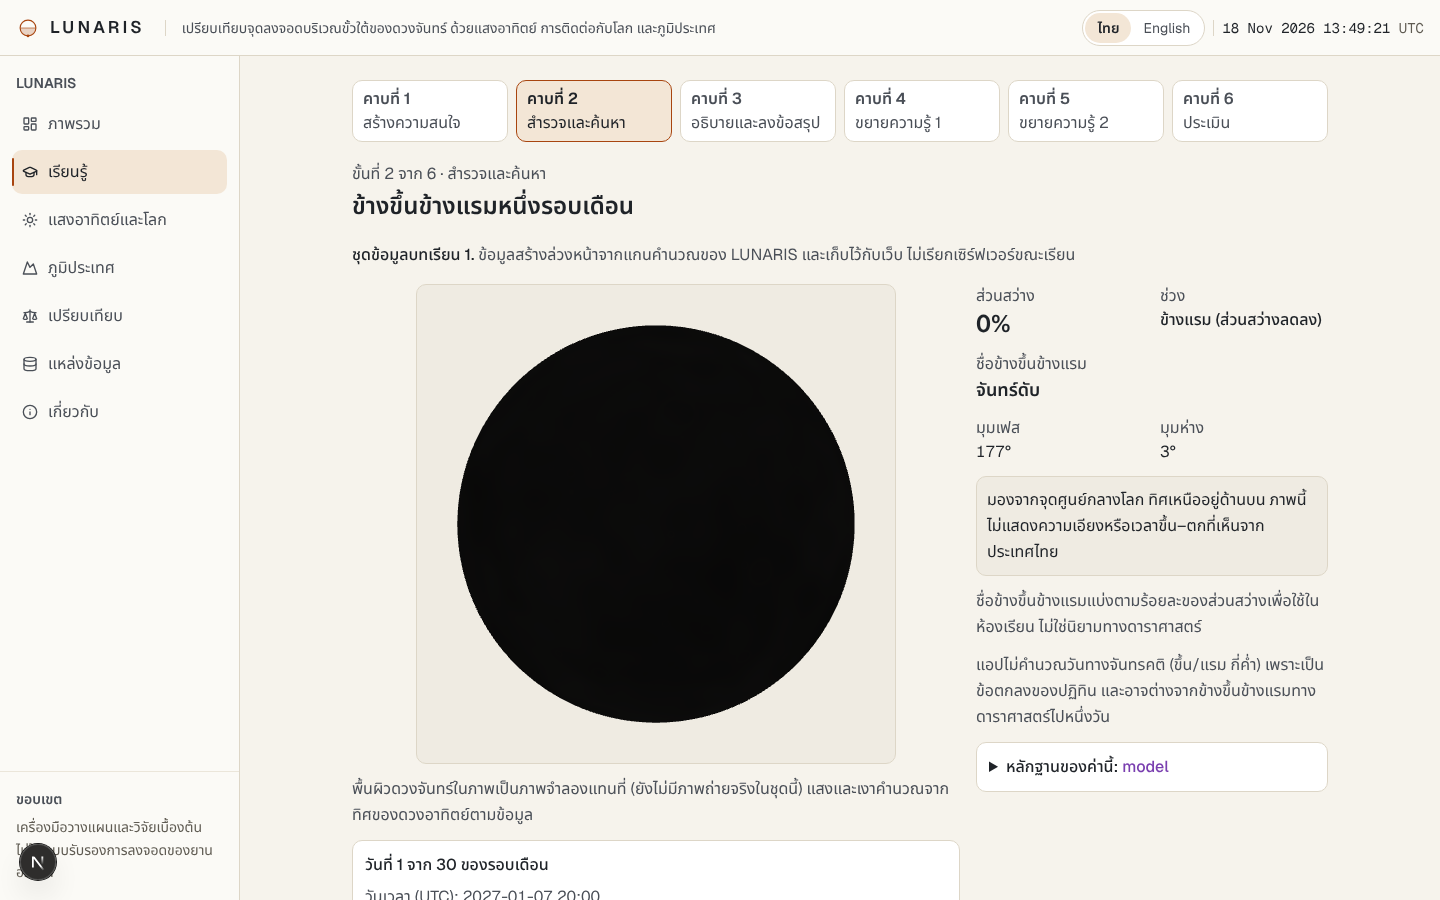
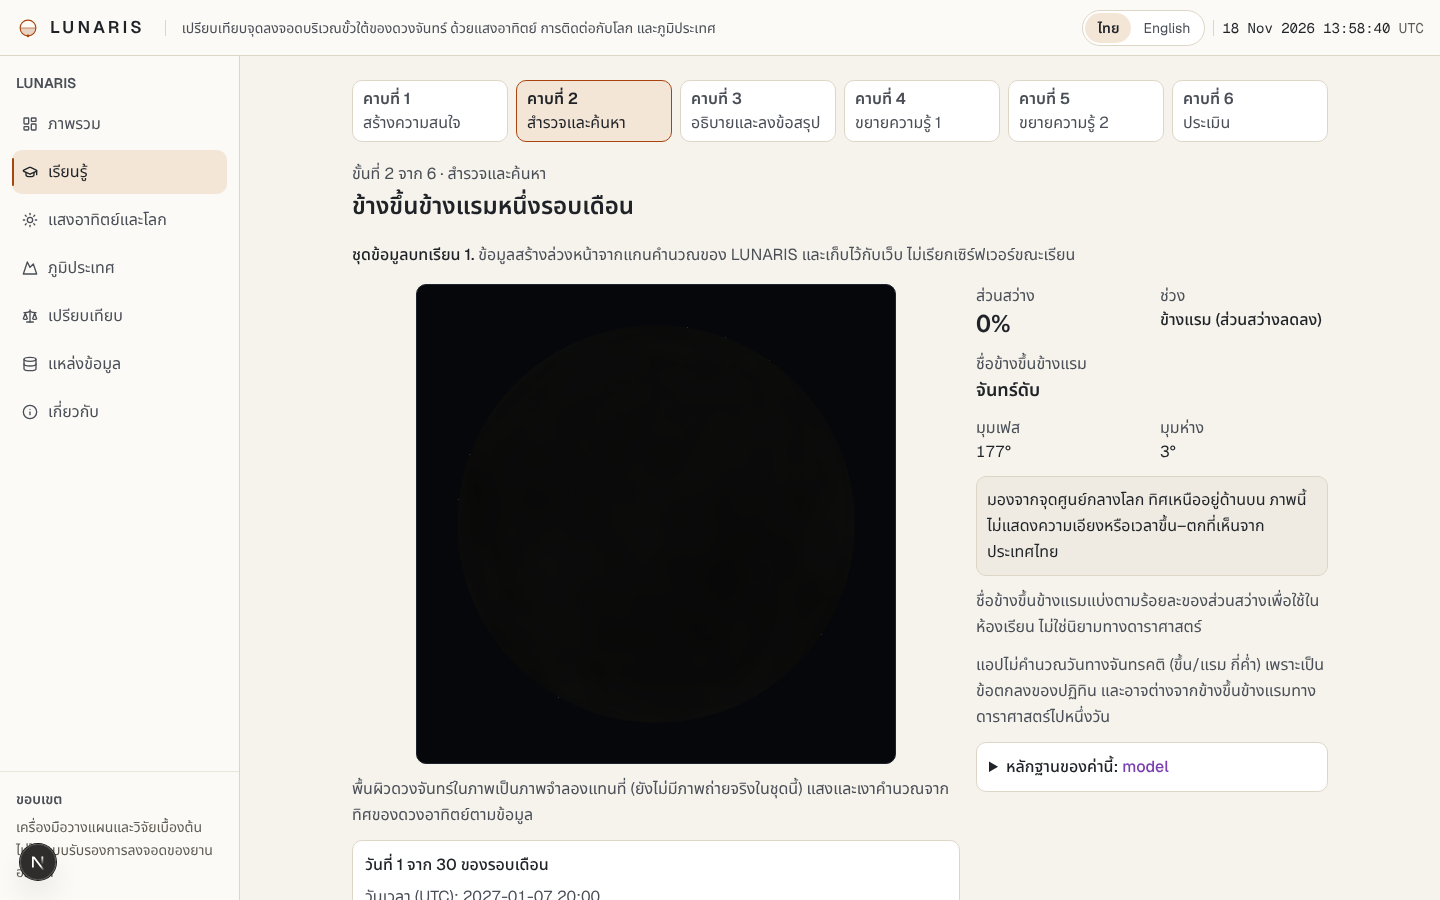
Lesson Earth view: dark space window for the Moon (theme token), refreshed period 2 screenshots
Claude-Session: https://claude.ai/code/session_01LFTanToHPG5hZL8DqQa83E

Changed region(s): [[0.2812, 0.3111, 0.625, 0.8711]]

diff --git a/apps/web/src/components/lesson/earth-view-step.tsx b/apps/web/src/components/lesson/earth-view-step.tsx
@@ -83,7 +83,7 @@ function EarthViewLesson({ pack }: { pack: LessonPack }) {
         <div className="space-y-3">
           <div
             data-testid="earth-view"
-            className="relative mx-auto aspect-square w-full max-w-[min(100%,30rem)] overflow-hidden rounded-md border border-border bg-panel-sunken"
+            className="space relative mx-auto aspect-square w-full max-w-[min(100%,30rem)] overflow-hidden rounded-md border border-border bg-background"
           >
             {surface.kind !== "resolving" && (
               <EarthViewCanvas
